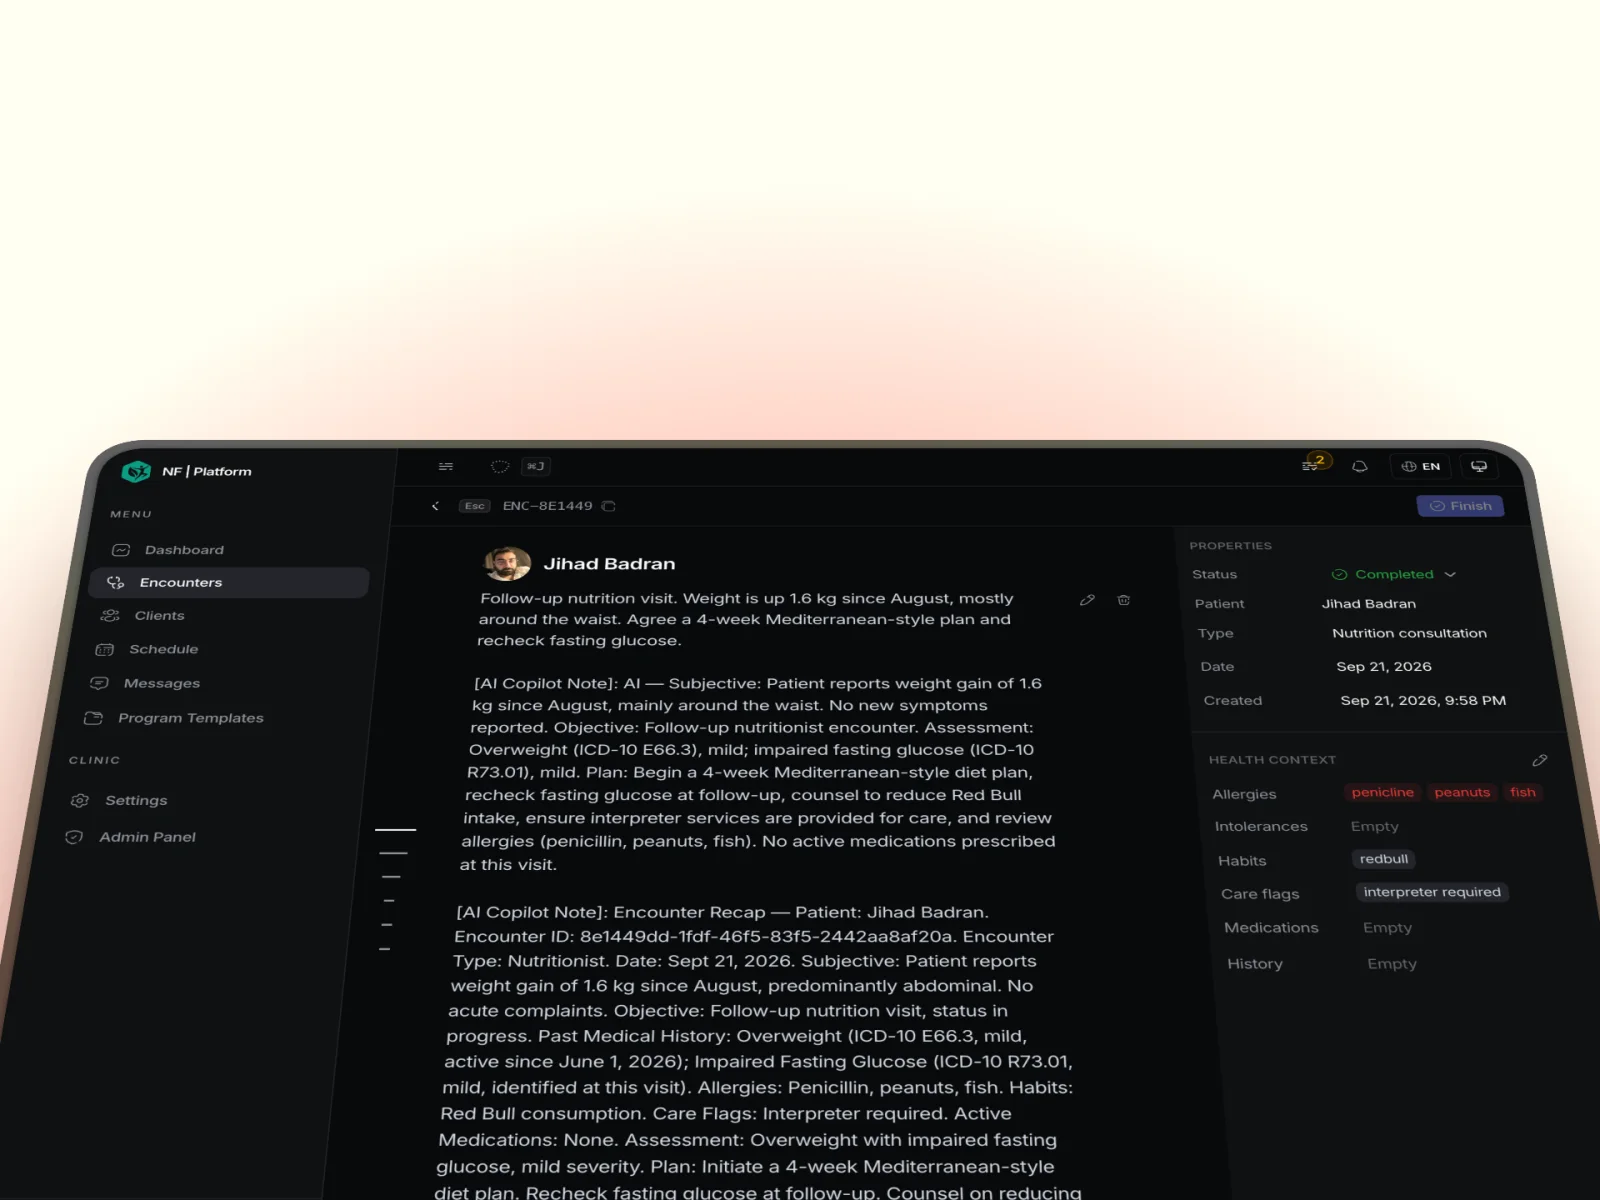
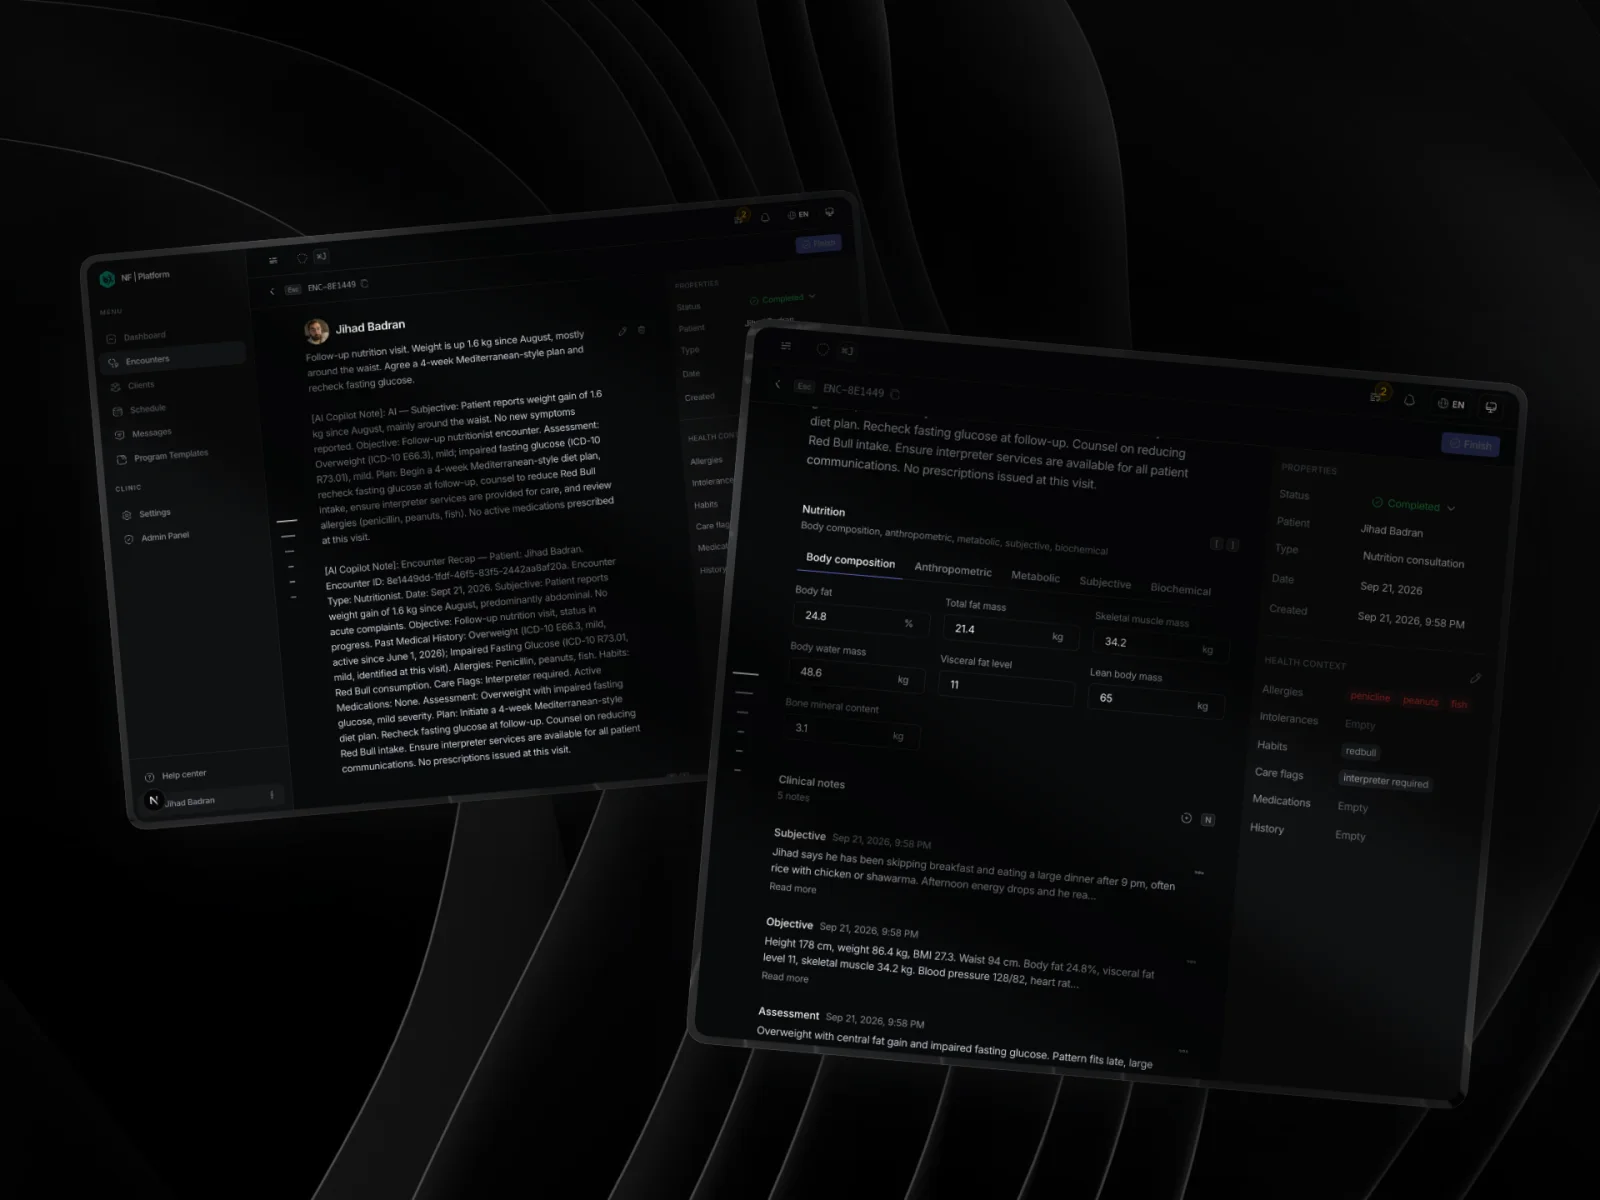
Use the two-tablet NutriFit platform shot for the web app tile

diff --git a/components/ProofStrip.tsx b/components/ProofStrip.tsx
@@ -14,7 +14,7 @@ const SHOTS = [
     mediaId: "work.nutrifit.web",
     label: "WEB APP · FOR NUTRITIONISTS",
     caption: "Consultations, AI copilot notes and health context in one record.",
-    alt: "The NutriFit platform on a tablet, open on a completed consultation with AI copilot notes and the patient's health context",
+    alt: "Two tablets showing the NutriFit platform for nutritionists: a consultation with AI copilot notes, and the body composition, health context and clinical notes of the same visit",
   },
   {
     mediaId: "work.nutrifit.mobile",
